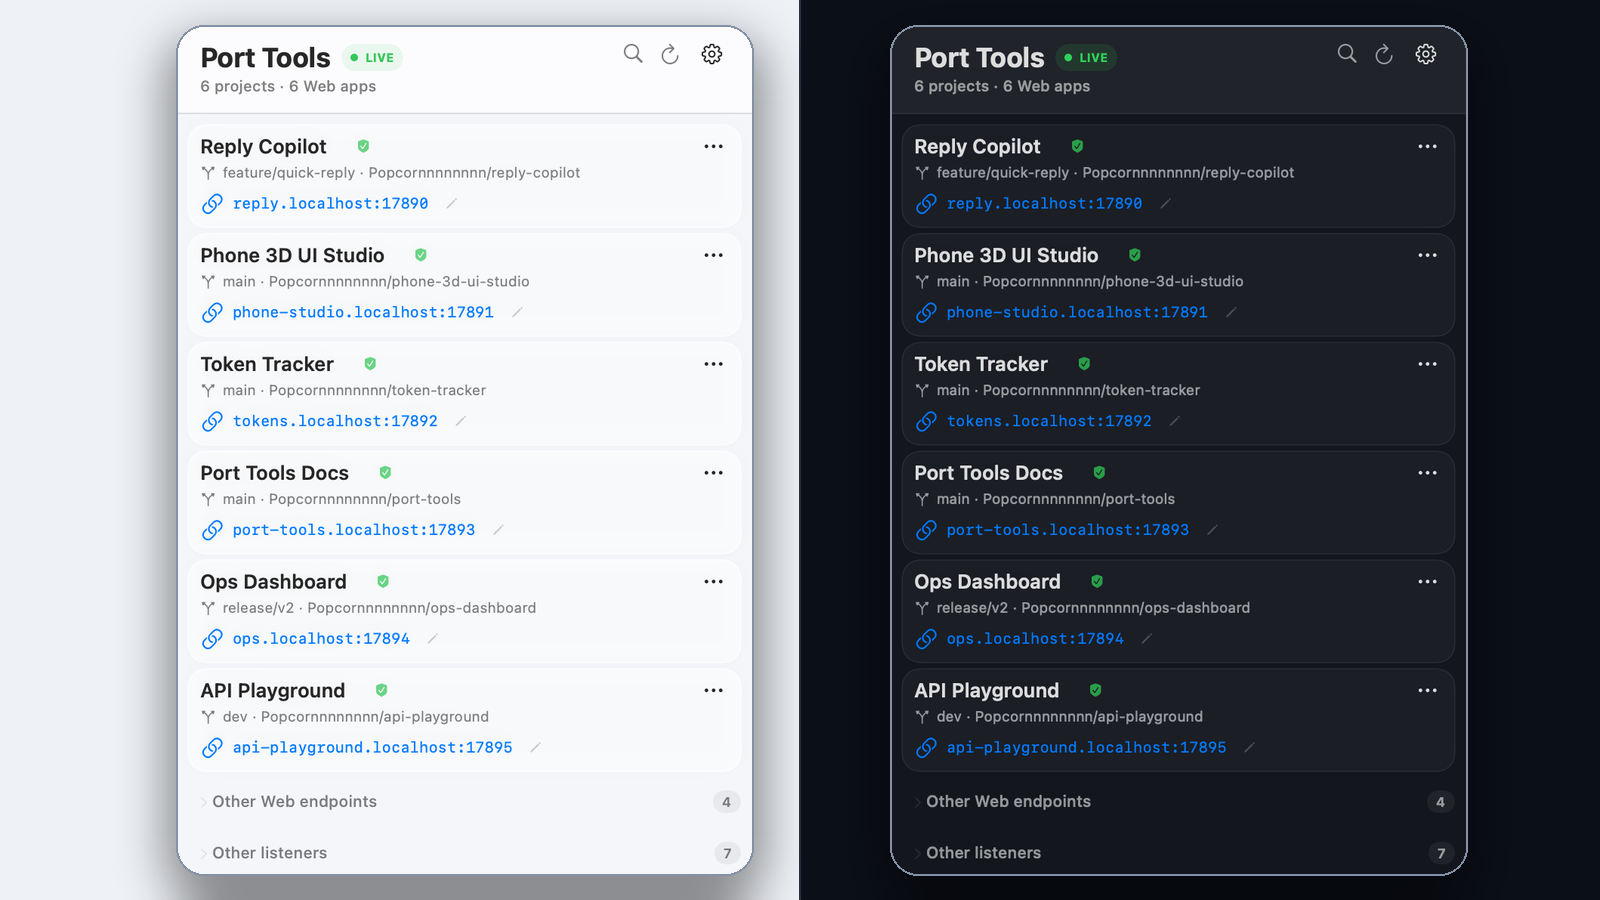
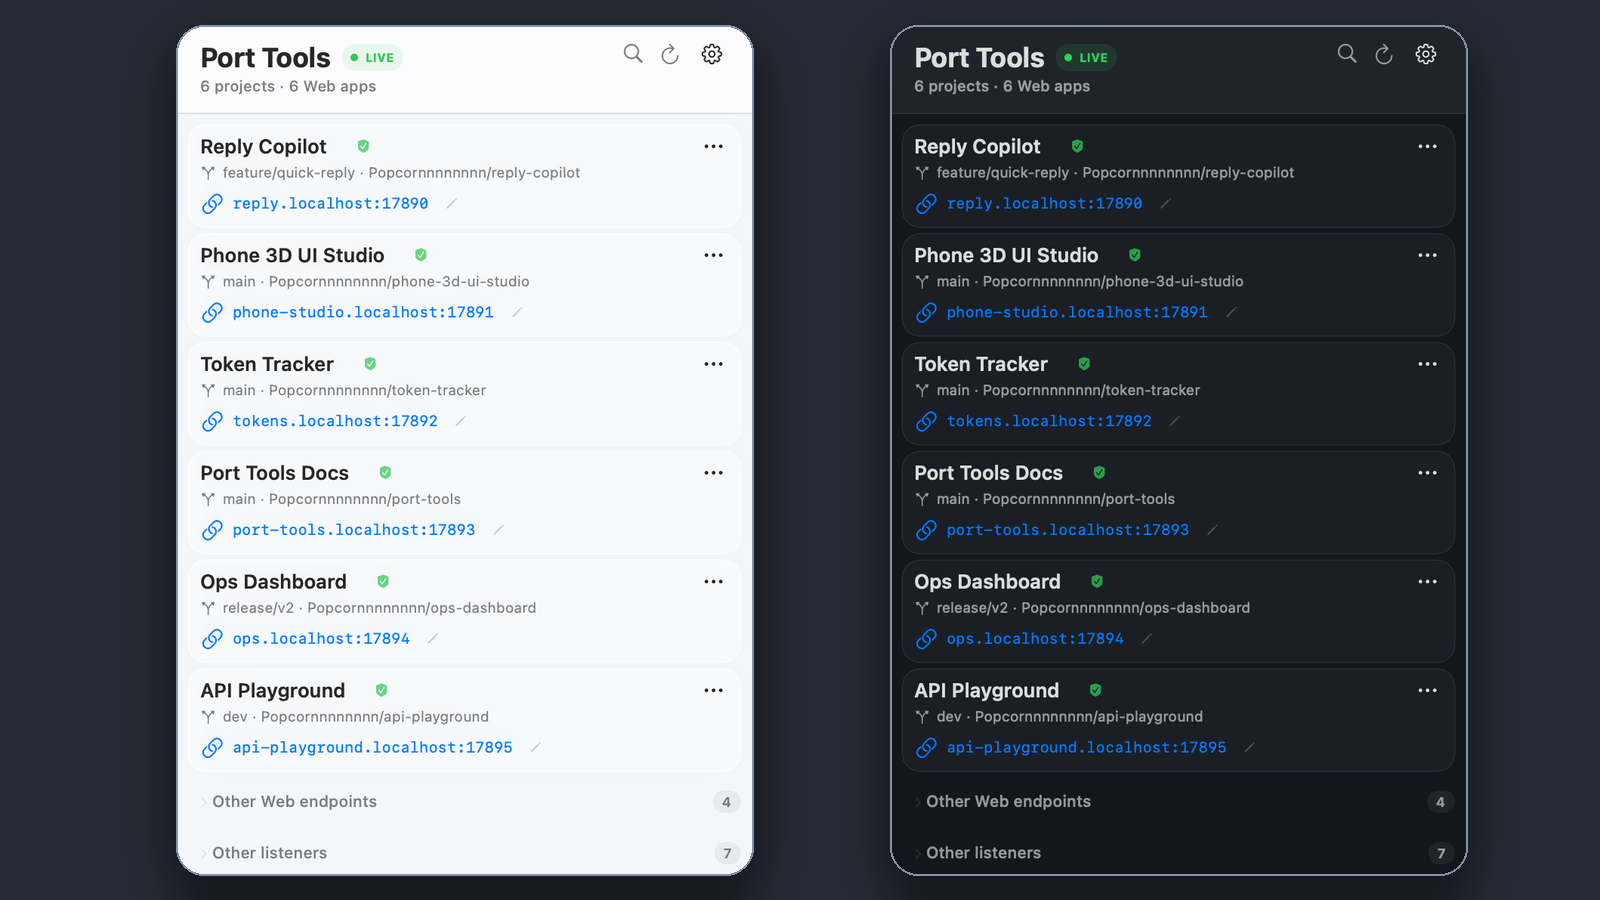
docs: unify product hero background

Changed region(s): [[0.0, 0.0, 1.0, 1.0]]

diff --git a/design/marketing/generate_assets.py b/design/marketing/generate_assets.py
@@ -62,10 +62,7 @@ def paste_panel(canvas: Image.Image, source_path: Path, x: int) -> None:
 
 def build_hero() -> None:
     width, height = 1600, 900
-    canvas = Image.new("RGBA", (width, height), "#eef1f6")
-    draw = ImageDraw.Draw(canvas)
-    draw.rectangle((800, 0, width, height), fill="#0b0f17")
-    draw.line((799, 0, 799, height), fill="#273143", width=2)
+    canvas = Image.new("RGBA", (width, height), "#252a34")
 
     paste_panel(canvas, OUT / "interface-light.png", 176)
     paste_panel(canvas, OUT / "interface-dark.png", 890)
